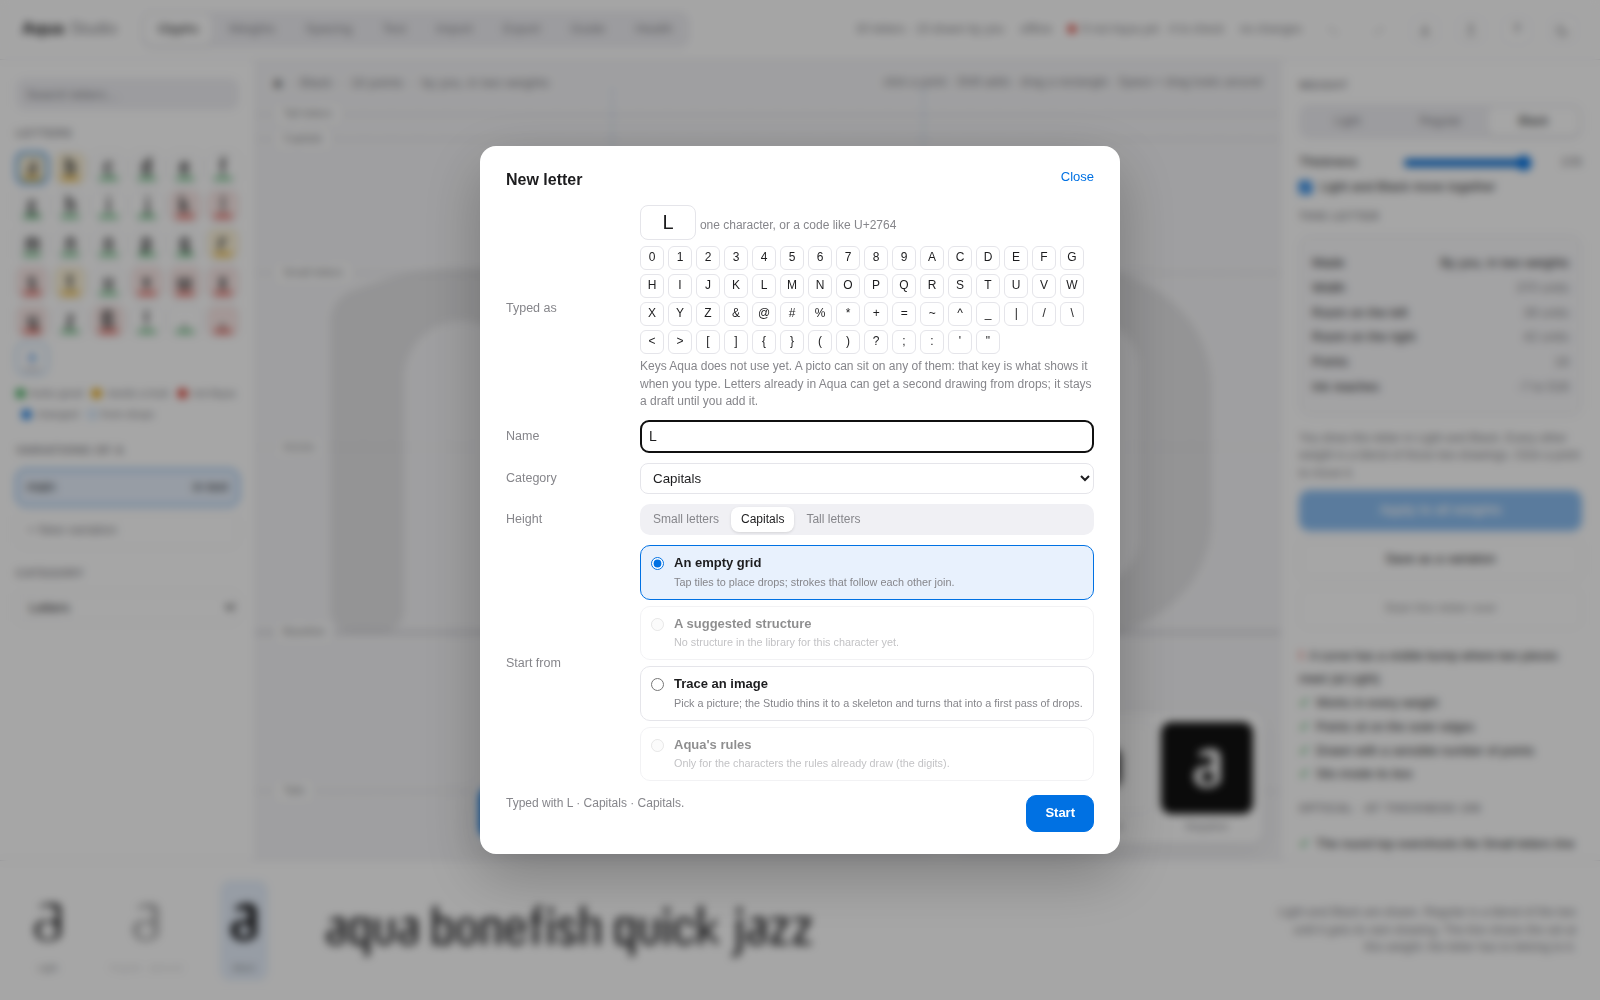
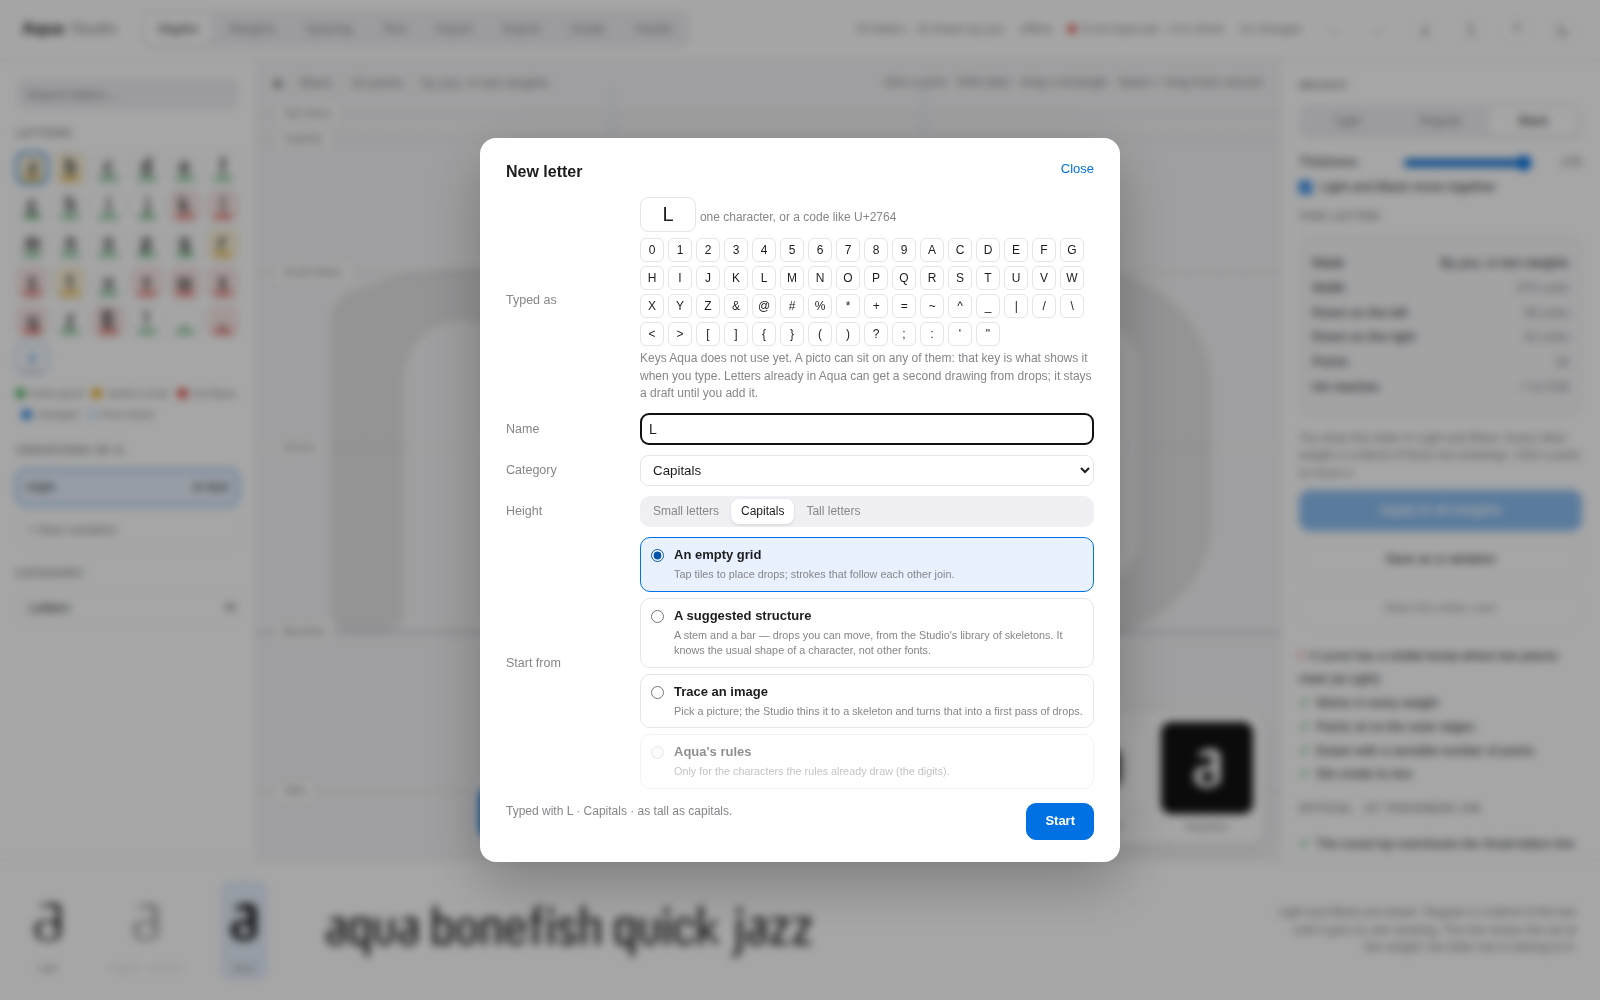
The skeleton library: a suggested structure for 110 characters
studio/skeletons.js knows the usual construction of every letter, capital,
digit, the common punctuation and signs, and a handful of pictos (heart,
star, arrows, tick, shapes, a face, an anchor, a note): strokes of drop
centres in font units, drawn the way a hand would tap them - a stem and an
arch for the n, a bowl and a stem for the a, a diagonal into a small loop
then the big loop and the arm for the ampersand. Each entry carries a plain
sentence, and the new-letter dialog quotes it under "A suggested structure",
so what you get is said before you get it. It is a codified library of how
characters are usually built, not something learned from other fonts, and
the dialog says that too.

The engine thickens a suggestion with Aqua's contrast and ends, so the
suggested letter already has the family's weight; the drops room offers
"Suggest a structure" (or "Replace with a suggested structure") for any
character in the library. A closed loop is stored as two open arcs that
overlap at both ends, because the stroker gathers a stroke whose end meets
its own start as a self-crossing; every one of the 110 draws with the same
point count at Light, Regular and Black.

tools/shoot_skeletons.mjs renders the whole library through the engine as
one sheet (studio/shots/skeletons-light.png). tools/test_studio.mjs: 68
checks, green.

Claude-Session: https://claude.ai/code/session_01BCbNSySZ2KuSc5Xt5f6RTd

diff --git a/studio/skeletons.js b/studio/skeletons.js
@@ -1,0 +1,162 @@
+// Aqua Studio — the skeleton library. For every character the Studio can suggest a first
+// structure: strokes of drop centres, in font units, drawn the way a hand would tap them on
+// the tile grid (a stem, an arch, a bowl, a bar). The engine thickens them with Aqua's own
+// contrast and ends, so a suggested letter already has the family's weight and rhythm; what
+// it does not have is the designer's judgement, which is why it is a start, not a drawing.
+//
+// This is a codified library of the usual construction of each character, not something
+// learned from other fonts: an n is a stem and an arch, an a is a bowl and a stem, an
+// ampersand is a small loop, a big loop and an arm. Every entry says so in plain words
+// (describe) so the dialog can tell Fabio what he will get.
+//
+//   has(ch)            → true if the library knows the character
+//   describe(ch)       → one plain sentence
+//   strokes(ch, height)→ { strokes: [[x, y], ...][], ends?: 'round' | 'flat' } scaled to the
+//                        chosen height (small 521 · caps 715 · tall 751), or null
+//   chars()            → every character in the library, in display order
+(() => {
+'use strict';
+const X = 520, C = 720, T = 760, D = -240;           // small · capitals · tall · tails, on the tile grid
+const R = v => Math.round(v);
+// n + 1 points on an ellipse from angle a0 to a1 (degrees, 0 = right, 90 = up)
+const arc = (cx, cy, rx, ry, a0, a1, n = 6) => { const out = []; for (let i = 0; i <= n; i++) { const a = (a0 + (a1 - a0) * i / n) * Math.PI / 180; out.push([cx + rx * Math.cos(a), cy + ry * Math.sin(a)]); } return out; };
+// a closed loop is two open arcs that overlap at both ends: the stroker gathers a stroke whose
+// end meets its own start as a self-crossing, so a ring is never one stroke
+const ring = (cx, cy, rx, ry, n = 12) => [arc(cx, cy, rx, ry, 80, 280, Math.ceil(n / 2)), arc(cx, cy, rx, ry, 260, 460, Math.ceil(n / 2))];
+const mirror = (strokes, w) => strokes.map(st => st.map(([x, y]) => [w - x, y]));
+const scaled = (strokes, kx, ky) => strokes.map(st => st.map(([x, y]) => [x * kx, y * ky]));
+const S_SMALL = [[330, 440], [250, 520], [120, 500], [70, 400], [140, 300], [260, 230], [330, 140], [270, 40], [150, 0], [60, 70]];
+const dot = (x, y) => [[x, y - 20], [x, y + 20]];
+
+// natural height of each group: small letters sit on X, everything else on C
+const LIB = {
+  // ── small letters ──
+  a: ['a bowl and a stem on the right', 'small', () => [[[340, X], [340, 0]], [[340, 330], ...arc(200, 190, 140, 190, 60, 300, 7), [340, 50]]]],
+  b: ['a tall stem and a bowl on the right', 'small', () => [[[60, T], [60, 0]], arc(200, 260, 140, 260, 150, -150, 9)]],
+  c: ['one open curve', 'small', () => [arc(200, 260, 140, 260, 50, 310, 8)]],
+  d: ['a bowl and a tall stem on the right', 'small', () => [[[340, T], [340, 0]], arc(200, 260, 140, 260, 30, 330, 9)]],
+  e: ['a bar and a curve that opens at the bottom right', 'small', () => [[[60, 260], [340, 260]], arc(200, 260, 140, 260, 0, 310, 8)]],
+  f: ['a stem that hooks over at the top, and a bar', 'small', () => [[[60, 0], [60, 600], ...arc(200, 600, 140, 160, 180, 60, 4)], [[0, X], [240, X]]]],
+  g: ['a bowl, a stem and a hooked tail below the line', 'small', () => [arc(200, 260, 140, 260, 30, 330, 9), [[340, X], [340, -100], ...arc(200, -100, 140, 140, 0, -180, 5)]]],
+  h: ['a tall stem and an arch', 'small', () => [[[60, T], [60, 0]], [[60, 300], ...arc(200, 300, 140, 220, 180, 0, 6), [340, 0]]]],
+  i: ['a stem and a dot', 'small', () => [[[60, X], [60, 0]], dot(60, 680)]],
+  j: ['a stem that curls below the line, and a dot', 'small', () => [[[340, X], [340, -100], ...arc(200, -100, 140, 140, 0, -180, 5)], dot(340, 680)]],
+  k: ['a tall stem, an arm up and a leg down', 'small', () => [[[60, T], [60, 0]], [[60, 200], [320, X]], [[150, 310], [340, 0]]]],
+  l: ['one tall stem', 'small', () => [[[60, T], [60, 0]]]],
+  m: ['a stem and two arches', 'small', () => [[[60, X], [60, 0]], [[60, 300], ...arc(180, 300, 120, 220, 180, 0, 6), [300, 0]], [[300, 300], ...arc(420, 300, 120, 220, 180, 0, 6), [540, 0]]]],
+  n: ['a stem and an arch', 'small', () => [[[60, X], [60, 0]], [[60, 300], ...arc(200, 300, 140, 220, 180, 0, 6), [340, 0]]]],
+  o: ['one closed ring', 'small', () => [...ring(200, 260, 140, 260)]],
+  p: ['a stem down below the line and a bowl on the right', 'small', () => [[[60, X], [60, D]], arc(200, 260, 140, 260, 150, -150, 9)]],
+  q: ['a bowl and a stem down below the line on the right', 'small', () => [[[340, X], [340, D]], arc(200, 260, 140, 260, 30, 330, 9)]],
+  r: ['a stem and a short arch', 'small', () => [[[60, X], [60, 0]], [[60, 300], ...arc(200, 300, 140, 220, 180, 20, 5)]]],
+  s: ['one stroke that curves twice', 'small', () => [S_SMALL]],
+  t: ['a stem with a curved foot, and a bar', 'small', () => [[[60, 700], [60, 140], ...arc(180, 140, 120, 140, 180, 300, 4)], [[0, X], [240, X]]]],
+  u: ['a stem, a round bottom and a stem', 'small', () => [[[60, X], [60, 220], ...arc(200, 220, 140, 220, 180, 360, 6)], [[340, X], [340, 0]]]],
+  v: ['two diagonals meeting at the bottom', 'small', () => [[[40, X], [200, 0], [360, X]]]],
+  w: ['four diagonals', 'small', () => [[[40, X], [160, 0], [300, X], [440, 0], [560, X]]]],
+  x: ['two diagonals that cross', 'small', () => [[[40, X], [360, 0]], [[360, X], [40, 0]]]],
+  y: ['two diagonals, one carrying on into a tail', 'small', () => [[[40, X], [200, 0]], [[360, X], [200, 0], [140, -160], [60, -230]]]],
+  z: ['a bar, a diagonal and a bar', 'small', () => [[[40, X], [360, X], [40, 0], [360, 0]]]],
+  // ── capitals ──
+  A: ['two diagonals meeting at the top, and a bar', 'caps', () => [[[40, 0], [220, C], [400, 0]], [[110, 260], [330, 260]]]],
+  B: ['a stem and two bowls', 'caps', () => [[[60, C], [60, 0]], [[60, C], [220, C], ...arc(220, 540, 120, 180, 90, -90, 5), [60, 360]], [[60, 360], [240, 360], ...arc(240, 180, 140, 180, 90, -90, 5), [60, 0]]]],
+  C: ['one open curve', 'caps', () => [arc(240, 360, 200, 360, 50, 310, 9)]],
+  D: ['a stem and one big bowl', 'caps', () => [[[60, C], [60, 0]], [[60, C], [200, C], ...arc(200, 360, 220, 360, 90, -90, 8), [60, 0]]]],
+  E: ['a stem and three bars', 'caps', () => [[[60, C], [60, 0]], [[60, C], [360, C]], [[60, 360], [320, 360]], [[60, 0], [360, 0]]]],
+  F: ['a stem and two bars', 'caps', () => [[[60, C], [60, 0]], [[60, C], [360, C]], [[60, 360], [320, 360]]]],
+  G: ['an open curve with a bar into it', 'caps', () => [[...arc(240, 360, 200, 360, 50, 360, 9), [300, 360]]]],
+  H: ['two stems and a bar', 'caps', () => [[[60, C], [60, 0]], [[400, C], [400, 0]], [[60, 360], [400, 360]]]],
+  I: ['one stem', 'caps', () => [[[60, C], [60, 0]]]],
+  J: ['a stem that curls at the bottom', 'caps', () => [[[300, C], [300, 160], ...arc(180, 160, 120, 160, 0, -180, 5)]]],
+  K: ['a stem, an arm up and a leg down', 'caps', () => [[[60, C], [60, 0]], [[60, 300], [380, C]], [[170, 440], [400, 0]]]],
+  L: ['a stem and a bar', 'caps', () => [[[60, C], [60, 0]], [[60, 0], [360, 0]]]],
+  M: ['two stems and a V between them', 'caps', () => [[[60, 0], [60, C], [260, 200], [460, C], [460, 0]]]],
+  N: ['two stems and a diagonal', 'caps', () => [[[60, 0], [60, C], [400, 0], [400, C]]]],
+  O: ['one closed ring', 'caps', () => [...ring(240, 360, 200, 360)]],
+  P: ['a stem and a bowl at the top', 'caps', () => [[[60, C], [60, 0]], [[60, C], [240, C], ...arc(240, 540, 140, 180, 90, -90, 5), [60, 360]]]],
+  Q: ['a ring with a tail', 'caps', () => [...ring(240, 360, 200, 360), [[300, 120], [460, -40]]]],
+  R: ['a stem, a bowl at the top and a leg', 'caps', () => [[[60, C], [60, 0]], [[60, C], [240, C], ...arc(240, 540, 140, 180, 90, -90, 5), [60, 360]], [[200, 360], [400, 0]]]],
+  S: ['one stroke that curves twice', 'caps', () => scaled([S_SMALL], 1.2, C / X)],
+  T: ['a bar and a stem', 'caps', () => [[[0, C], [440, C]], [[220, C], [220, 0]]]],
+  U: ['two stems joined by a round bottom', 'caps', () => [[[60, C], [60, 200], ...arc(230, 200, 170, 200, 180, 360, 6), [400, C]]]],
+  V: ['two diagonals meeting at the bottom', 'caps', () => [[[40, C], [240, 0], [440, C]]]],
+  W: ['four diagonals', 'caps', () => [[[40, C], [180, 0], [330, C], [480, 0], [620, C]]]],
+  X: ['two diagonals that cross', 'caps', () => [[[40, C], [440, 0]], [[440, C], [40, 0]]]],
+  Y: ['two diagonals meeting on a stem', 'caps', () => [[[40, C], [240, 320]], [[440, C], [240, 320], [240, 0]]]],
+  Z: ['a bar, a diagonal and a bar', 'caps', () => [[[40, C], [440, C], [40, 0], [440, 0]]]],
+  // ── digits (Aqua's rules draw these already; the skeletons are for a drops version) ──
+  '0': ['one ring', 'caps', () => [...ring(200, 360, 150, 360)]],
+  '1': ['a flag and a stem', 'caps', () => [[[60, 560], [200, C], [200, 0]]]],
+  '2': ['a curve over the top, a diagonal and a bar', 'caps', () => [[...arc(200, 540, 140, 170, 160, -60, 6), [60, 0], [360, 0]]]],
+  '3': ['two bowls, open on the left', 'caps', () => [[[70, 620], ...arc(200, 540, 140, 180, 120, -90, 6)], [[200, 360], ...arc(200, 180, 150, 180, 90, -120, 6), [60, 80]]]],
+  '4': ['a diagonal, a bar and a stem', 'caps', () => [[[320, C], [40, 200], [420, 200]], [[320, C], [320, 0]]]],
+  '5': ['a bar, a stem and a bowl', 'caps', () => [[[340, C], [100, C], [80, 400], ...arc(210, 220, 150, 220, 120, -100, 6), [60, 60]]]],
+  '6': ['a curve down into a bowl', 'caps', () => [[[320, 700], [180, 640], [70, 420], [60, 220]], ...ring(200, 220, 140, 220, 8)]],
+  '7': ['a bar and a diagonal', 'caps', () => [[[40, C], [400, C], [160, 0]]]],
+  '8': ['two rings, one on the other', 'caps', () => [...ring(200, 540, 120, 180, 8), ...ring(200, 180, 140, 180, 8)]],
+  '9': ['a bowl and a curve down', 'caps', () => [[[80, 20], [220, 80], [330, 300], [340, 500]], ...ring(200, 500, 140, 220, 8)]],
+  // ── punctuation and signs ──
+  '&': ['a diagonal up into a small loop, then the big loop below and the arm out to the right', 'caps', () => [[[300, 60], [140, 280], [100, 520], [150, 660], [230, 700], [300, 640], [290, 520], [200, 420]], [[200, 420], [80, 300], [60, 150], [120, 40], [230, 20], [320, 90], [400, 220]]]],
+  '@': ['a small ring inside a big open curve', 'caps', () => [...ring(240, 260, 110, 150, 8), [[350, 420], [350, 160]], arc(240, 260, 220, 260, -20, 290, 9)]],
+  '#': ['two slanted stems and two bars', 'caps', () => [[[140, C], [60, 0]], [[340, C], [260, 0]], [[20, 460], [380, 460]], [[0, 260], [360, 260]]]],
+  '%': ['two small rings and a diagonal', 'caps', () => [...ring(120, 560, 80, 120, 8), ...ring(320, 160, 80, 120, 8), [[400, C], [40, 0]]]],
+  '*': ['three short strokes through one point', 'caps', () => [[[200, C], [200, 400]], [[60, 640], [340, 480]], [[340, 640], [60, 480]]]],
+  '+': ['a bar and a stem crossing', 'caps', () => [[[40, 300], [360, 300]], [[200, 460], [200, 140]]]],
+  '=': ['two bars', 'caps', () => [[[40, 380], [360, 380]], [[40, 220], [360, 220]]]],
+  '-': ['one short bar', 'caps', () => [[[40, 300], [300, 300]]]],
+  '_': ['one bar under the line', 'caps', () => [[[0, -80], [400, -80]]]],
+  '?': ['a curve over the top down to a short stem, and a dot', 'caps', () => [[...arc(200, 540, 140, 180, 150, -90, 6), [200, 300], [200, 180]], dot(200, 40)]],
+  '!': ['a stem and a dot', 'caps', () => [[[60, C], [60, 200]], dot(60, 40)]],
+  '.': ['one dot', 'caps', () => [dot(60, 40)]],
+  ',': ['one dot with a tail', 'caps', () => [[[70, 70], [70, 0], [30, -90]]]],
+  ';': ['a dot over a comma', 'caps', () => [dot(60, 460), [[70, 70], [70, 0], [30, -90]]]],
+  ':': ['two dots', 'caps', () => [dot(60, 460), dot(60, 40)]],
+  "'": ['one short stem at the top', 'caps', () => [[[60, C], [60, 560]]]],
+  '"': ['two short stems at the top', 'caps', () => [[[60, C], [60, 560]], [[200, C], [200, 560]]]],
+  '(': ['one curve, open to the right', 'caps', () => [arc(360, 260, 260, 500, 120, 240, 6)]],
+  ')': ['one curve, open to the left', 'caps', () => [arc(40, 260, 260, 500, 60, -60, 6)]],
+  '[': ['a stem with two short bars', 'caps', () => [[[200, T], [60, T], [60, D], [200, D]]]],
+  ']': ['a stem with two short bars', 'caps', () => mirror([[[200, T], [60, T], [60, D], [200, D]]], 260)],
+  '{': ['a stem that pinches in the middle', 'caps', () => [[[240, T], [140, 740], [120, 600], [120, 340], [40, 260], [120, 180], [120, -80], [140, -220], [240, D]]]],
+  '}': ['a stem that pinches in the middle', 'caps', () => mirror([[[240, T], [140, 740], [120, 600], [120, 340], [40, 260], [120, 180], [120, -80], [140, -220], [240, D]]], 280)],
+  '/': ['one diagonal', 'caps', () => [[[40, -100], [360, T]]]],
+  '\\': ['one diagonal', 'caps', () => [[[360, -100], [40, T]]]],
+  '<': ['two diagonals meeting on the left', 'caps', () => [[[340, 600], [40, 300], [340, 0]]]],
+  '>': ['two diagonals meeting on the right', 'caps', () => [[[40, 600], [340, 300], [40, 0]]]],
+  '|': ['one tall stem', 'caps', () => [[[60, T], [60, D]]]],
+  '~': ['one wave', 'caps', () => [[[40, 280], [120, 360], [200, 320], [280, 240], [360, 320]]]],
+  '^': ['two diagonals meeting at the top', 'caps', () => [[[60, 480], [200, C], [340, 480]]]],
+  '€': ['an open curve with two bars', 'caps', () => [arc(260, 360, 200, 360, 50, 310, 9), [[20, 420], [300, 420]], [[20, 300], [300, 300]]]],
+  '$': ['an S with a stem through it', 'caps', () => [...scaled([S_SMALL], 1.2, C / X), [[200, 780], [200, -60]]]],
+  '£': ['a hooked stem, a foot and a bar', 'caps', () => [[[360, 660], ...arc(240, 560, 120, 160, 60, 180, 4), [120, 400], [120, 100], [60, 0], [380, 0]], [[20, 320], [260, 320]]]],
+  // ── pictos ──
+  '❤': ['a heart: one closed stroke with two bumps at the top', 'caps', () => [[[200, 0], [40, 240], [40, 420], [120, 520], [200, 460]], [[200, 460], [280, 520], [360, 420], [360, 240], [200, 0]]]],
+  '★': ['a five-pointed star, one closed stroke', 'caps', () => (() => { const pt = i => { const a = (90 + i * 36) * Math.PI / 180, r = i % 2 ? 140 : 360; return [240 + r * Math.cos(a), 360 + r * Math.sin(a)]; }; return [[0, 1, 2, 3, 4, 5].map(pt), [5, 6, 7, 8, 9, 10].map(pt)]; })()],
+  '→': ['an arrow to the right: a bar and a head', 'caps', () => [[[40, 360], [440, 360]], [[300, 520], [440, 360], [300, 200]]]],
+  '←': ['an arrow to the left: a bar and a head', 'caps', () => [[[440, 360], [40, 360]], [[180, 520], [40, 360], [180, 200]]]],
+  '↑': ['an arrow up: a stem and a head', 'caps', () => [[[200, 0], [200, C]], [[60, 580], [200, C], [340, 580]]]],
+  '↓': ['an arrow down: a stem and a head', 'caps', () => [[[200, C], [200, 0]], [[60, 140], [200, 0], [340, 140]]]],
+  '✓': ['a tick: a short diagonal down and a long one up', 'caps', () => [[[40, 300], [160, 60], [440, 640]]]],
+  '×': ['two diagonals that cross', 'caps', () => [[[60, 560], [340, 140]], [[340, 560], [60, 140]]]],
+  '○': ['one ring', 'caps', () => [...ring(240, 360, 200, 360)]],
+  '□': ['a square: four sides', 'caps', () => [[[60, 0], [60, C], [420, C]], [[420, C], [420, 0], [60, 0]]]],
+  '△': ['a triangle: three sides', 'caps', () => [[[40, 0], [240, C], [440, 0]], [[440, 0], [40, 0]]]],
+  '◇': ['a diamond: four sides', 'caps', () => [[[240, C], [440, 360], [240, 0]], [[240, 0], [40, 360], [240, C]]]],
+  '☺': ['a face: a ring, two dots and a smile', 'caps', () => [...ring(240, 360, 220, 360), dot(160, 470), dot(320, 470), arc(240, 300, 120, 120, 200, 340, 4)]],
+  '⚓': ['an anchor: a small ring, a stem, a bar and the curved arms', 'caps', () => [...ring(240, 660, 50, 60, 6), [[240, 600], [240, 0]], [[120, 440], [360, 440]], arc(240, 220, 200, 220, 180, 360, 6)]],
+  '♪': ['a note: a stem, a flag and a ring at the bottom', 'caps', () => [[[300, 700], [300, 80]], ...ring(220, 80, 90, 80, 7), [[300, 700], [420, 600], [420, 480]]]]
+};
+const NATURAL = { small: X, caps: C, tall: T };
+function has(ch) { return !!LIB[ch]; }
+function describe(ch) { const e = LIB[ch]; return e ? e[0][0].toUpperCase() + e[0].slice(1) : null; }
+function strokes(ch, height) {
+  const e = LIB[ch]; if (!e) return null;
+  const nat = NATURAL[e[1]], want = NATURAL[height] || nat, k = want / nat;
+  const out = e[2]().map(st => st.map(([x, y]) => [R(x), R(y * k)]));
+  return { strokes: out, natural: e[1] };
+}
+function chars() { return Object.keys(LIB); }
+const api = { has, describe, strokes, chars };
+if (typeof module !== 'undefined' && module.exports) module.exports = api;
+if (typeof window !== 'undefined') window.AquaSkeletons = api;
+})();

diff --git a/studio/newglyph.js b/studio/newglyph.js
@@ -317,6 +317,7 @@ function renderInspector() {
     ${ng.sel && g.strokes[ng.sel.si] ? `<div class="card sel" style="margin-top:0"><h6>Selected drop</h6><div class="kv"><span>At</span><span>x ${g.strokes[ng.sel.si][ng.sel.i][0]} · y ${g.strokes[ng.sel.si][ng.sel.i][1]}</span></div><div class="kv"><span>Stroke</span><span>${ng.sel.si + 1} of ${g.strokes.length} · drop ${ng.sel.i + 1} of ${g.strokes[ng.sel.si].length}</span></div>
       ${ng.tool === 'nudge' ? `<div class="pad" id="pad"><b data-n="0,1">↑</b><b data-n="-1,0">←</b><b data-n="0,-1">↓</b><b data-n="1,0">→</b><small>one tile</small></div>` : '<p class="small sub" style="margin:6px 0 0">Arrow keys move it one tile. Erase removes it.</p>'}</div>`
     : `<p class="small sub" style="margin:0">${g.strokes.length ? `${g.strokes.length} stroke${g.strokes.length > 1 ? 's' : ''}, ${g.strokes.reduce((n, st) => n + st.length, 0)} drops.` : 'No drops yet. Pick Add drop and tap the tiles.'}</p>`}
+    ${window.AquaSkeletons && window.AquaSkeletons.has(g.ch) ? `<div class="btn" data-act="suggest" title="${esc(window.AquaSkeletons.describe(g.ch))}">${g.strokes.length ? 'Replace with a suggested structure' : 'Suggest a structure'}</div>` : ''}
     ${g.use === false ? `<div class="btn pri ${g.strokes.length ? '' : 'off'}" data-act="use">Add to Aqua</div>` : `<div class="btn" data-act="draft">Keep as a draft (out of the text)</div>`}
     <div class="btn" data-act="clear" title="Remove every drop">Start over</div>
     <div class="btn" data-act="delete">Delete this letter</div>
@@ -333,6 +334,7 @@ function renderInspector() {
   insp.querySelectorAll('[data-act]').forEach(el => el.onclick = () => {
     const act = el.dataset.act; if (el.classList.contains('off')) return;
     if (act === 'trace') traceNow();
+    else if (act === 'suggest') { const sk = window.AquaSkeletons.strokes(g.ch, g.height); if (sk && (!g.strokes.length || confirm(`Replace the drops of ${g.name} with the suggested structure (${window.AquaSkeletons.describe(g.ch).toLowerCase()})?`))) { ng.sel = null; D.setStrokes(ng.key, sk.strokes, true, `Suggest a structure for ${g.name}`); } }
     else if (act === 'dropimage') { ng.image = null; A().renderRoom(); }
     else if (act === 'addimage') document.getElementById('imgfile').click();
     else if (act === 'use') upd({ use: true }, `Add ${g.name} to Aqua`);

diff --git a/studio/index.html b/studio/index.html
@@ -10,6 +10,7 @@
 <script src="doc.js"></script>
 <script src="audit.js"></script>
 <script src="editor.js"></script>
+<script src="skeletons.js"></script>
 <script src="newglyph.js"></script>
 </head>
 <body>
